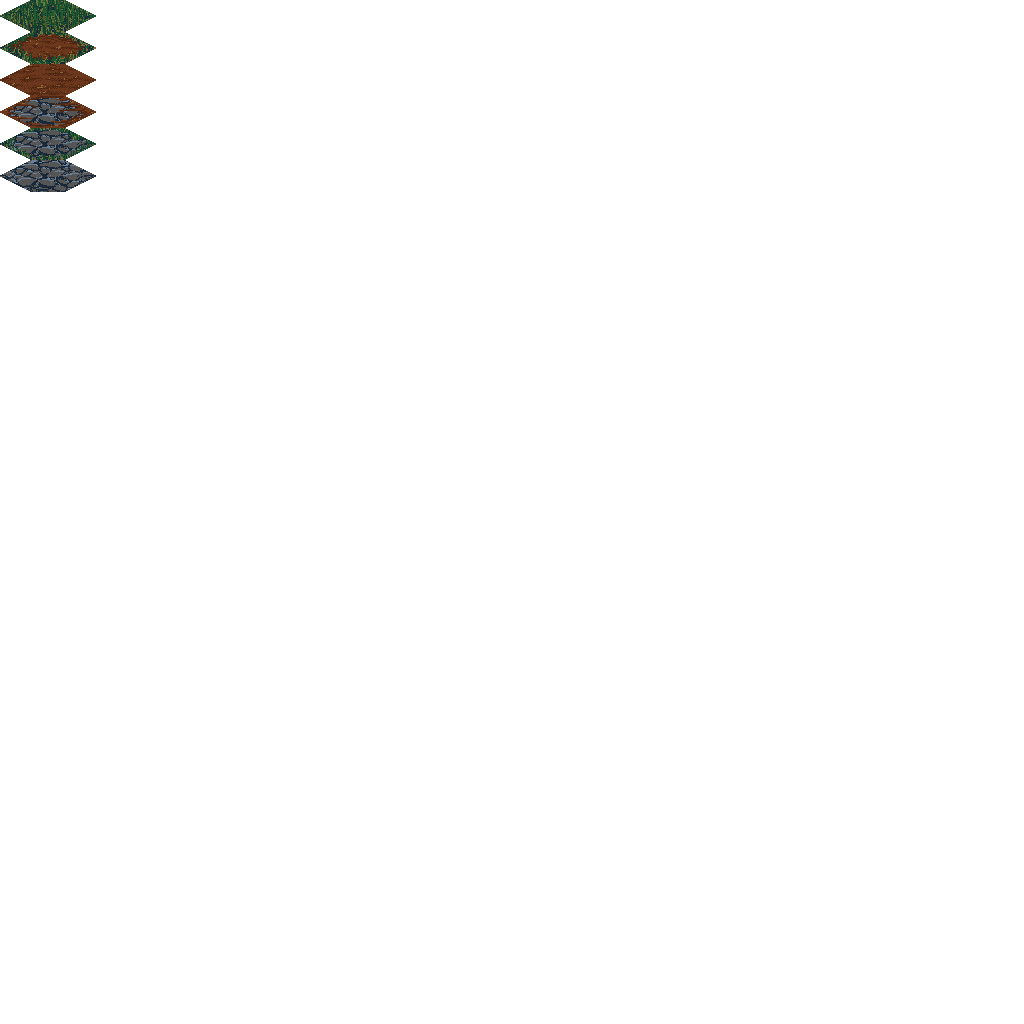
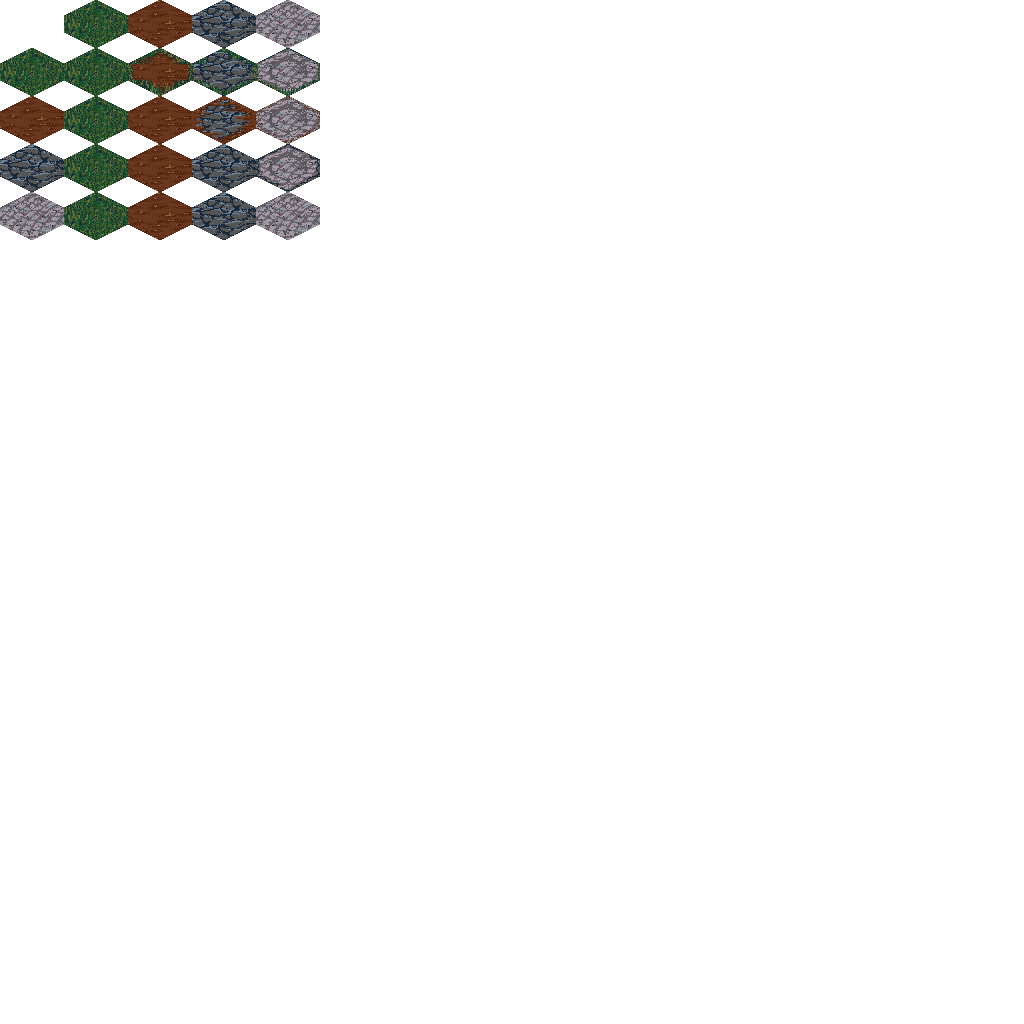
tile shape change

Changed region(s): [[0.0, 0.0, 0.3125, 0.25]]

diff --git a/map_editor/src.js b/map_editor/src.js
@@ -47,13 +47,13 @@ function noise(x, y, z) {
 }
 
 const background_tiles = new Image();
-background_tiles.src = "assets/tiles-0.03.png"; // 32x16 tiles. 96x32 hexagons.
+background_tiles.src = "assets/tiles.png"; // 32x16 tiles. 64x48 hexagons.
+tile_width = 64;
+tile_height = 48;
 
 map_width = 80;
 map_height = 80;
-if (map_width < 864 / 64) map_width = Math.round(864 / 64);
-if (map_width < 864 >> 6) map_width = 864 >> 6;
-if (map_height < 632 >> 5) map_height = 632 >> 5;
+
 map = []
 for (x = 0; x < map_width; x++) {
     map.push([]);
@@ -80,161 +80,85 @@ const offscreen_canvas = new OffscreenCanvas(canvas.width, canvas.height);
 const octx = offscreen_canvas.getContext("2d");
 octx.imageSmoothingEnabled = false;
 update_display = false;
+// prevent the map from being to small
+if (map_width < canvas.width / tile_width) map_width = Math.round(canvas.width / tile_width);
+if (map_height < canvas.height / tile_height) map_height = Math.round(canvas.height / tile_height);
 pressed_keys = {};
 brush_tile = 2;
-
-function pick_tile(tile_a, tile_b) {
-    //bg tile order:
-    // 1 - grass
-    // 2 - dirt
-    // 3 - stone
-    if (tile_a == 2 && tile_b == 0) return 1;
-    if (tile_a == 5 && tile_b == 0) return 4;
-    if (tile_a == 5 && tile_b == 2) return 3;
-    return tile_a;
-}
 
 function on_image_load() {
     update_display = true;
     setInterval(update, 1000 / 60);
 }
-function check_edges(x, y) {
-
-    o = (x % 2);
-    center = map[x][y];
-    top_left = center; top = center; top_right = center; bottom_left = center; bottom = center; bottom_right = center;
-    if (x >= 0 && x < map_width && y >= 0 && y < map_height) {
-        if (x > 0) {
-            if (y > 0) {
-                top_left = map[x - 1][y - 1 + o];
-            }
-            if (y < map_width - 1) {
-                bottom_left = map[x - 1][y + o];
-            }
-        }
-        if (x < map_width - 1) {
-            if (y > 0) {
-                top_right = map[x + 1][y - 1 + o];
-            }
-            if (y < map_width - 1) {
-                bottom_right = map[x + 1][y + o];
-            }
-        }
-        if (y > 0) {
-            top = map[x][y - 1];
-        }
-        if (y < map_height - 1) {
-            bottom = map[x][y + 1];
-        }
-    }
-    return [center, top_left, top, top_right, bottom_left, bottom, bottom_right];
-}
 function draw() {
     if (update_display ) {
-        octx.clearRect(0, 0, canvas.width, canvas.height);
-        x = highlighted_tile[0];
-        y = highlighted_tile[1];
-
-        if (x < 1) x = 1;
-        if (x > map_width - 2) x = map_width - 2;
-        if (y < 1) y = 1;
-        if (y > map_height - 2) y = map_height - 2;
-        tile_x = map[x][y] * 96;
-        tile_y = map[x - 1][y - (x % 2)] * 32;
-        octx.drawImage(
-            background_tiles, tile_x, tile_y, 32, 16,
-            Math.round((x * 64 - view_x) * scale),
-            Math.round((y * 32 - view_y + (x % 2)*16) * scale),
-            32 * scale, 16 * scale);
-        // draw top middle
-        tile_x = map[x][y] * 96;
-        tile_y = map[x][y - 1] * 32;
-        octx.drawImage(
-            background_tiles, tile_x + 32, tile_y, 32, 16,
-            Math.round((x * 64 - view_x + 32) * scale),
-            Math.round((y * 32 - view_y + (x % 2)*16) * scale),
-            32 * scale, 16 * scale);
-        // draw top right
-        tile_y = map[x + 1][y - (x%2)] * 32;
-        octx.drawImage(
-            background_tiles, tile_x + 64, tile_y, 32, 16,
-            Math.round((x * 64 - view_x + 64) * scale),
-            Math.round((y * 32 - view_y + (x % 2) * 16) * scale),
-            32 * scale, 16 * scale);
-        // draw bottom left
-        tile_y = map[x - 1][y + (x % 2)] * 32;
-        octx.drawImage(
-            background_tiles, tile_x, tile_y + 16, 32, 16,
-            Math.round((x * 64 - view_x) * scale),
-            Math.round((y * 32 - view_y + (x % 2)* 16 + 16) * scale),
-            32 * scale, 16 * scale);
-        // middle bottom
-        tile_y = map[x][y+1] * 32;
-        octx.drawImage(
-            background_tiles, tile_x + 32, tile_y + 16, 32, 16,
-            Math.round((x * 64 - view_x + 32) * scale),
-            Math.round((y * 32 - view_y + (x % 2)* 16 + 16) * scale),
-            32 * scale, 16 * scale);
-        // bottom right
-        tile_y = map[x + 1][y + (x % 2)] * 32;
-        octx.drawImage(
-            background_tiles, tile_x + 64, tile_y + 16, 32, 16,
-            Math.round((x * 64 - view_x + 64) * scale),
-            Math.round((y * 32 - view_y + (x % 2)* 16 + 16) * scale),
-            32 * scale, 16 * scale);
         octx.fillStyle = "rgba(255,255,255,0.3)";
         octx.fillRect(x * 64 - view_x, y * 32 - view_y + (x % 2) * 16, 96, 32);
-        for (x = Math.floor(view_x / 64 * scale)-1; x < Math.floor(view_x + canvas.width) / 64 * scale + 1; x++) {
+        for (x = Math.floor(view_x / tile_width * scale)-1; x < Math.floor(view_x + canvas.width) / tile_width * scale + 1; x++) {
             for (y = Math.floor(view_y / 32 * scale) - 1; y < Math.floor(view_y + canvas.height) / 32 * scale + 1; y++) {
                 if (x < 1) continue; if (x > map_width - 2) continue;
                 if (y < 1) continue; if (y > map_height - 2) continue;
-                if (x == highlighted_tile[0] && y == highlighted_tile[1]) continue;
+                // if (x == highlighted_tile[0] && y == highlighted_tile[1]) continue;
 
-                tile_x = map[x][y] * 96;
-                tile_y = map[x - 1][y-((x-1)%2)] * 32;
+                //top left
+                tile_x = map[x][y] * tile_width;
+                tile_y = map[x-1+(y%2)][y-1] * tile_height;
                 octx.drawImage(
                     background_tiles, tile_x, tile_y, 32, 16,
-                    Math.round((x * 64 - view_x) * scale),
-                    Math.round((y * 32 - view_y + (x % 2)*16) * scale),
+                    Math.round((x * tile_width - view_x + (y%2)*32) * scale),
+                    Math.round((y * 32 - view_y ) * scale),
                     32 * scale, 16 * scale);
-                // draw top middle
-                tile_y = map[x][y - 1] * 32;
+                // top right
+                tile_y = map[x+(y%2)][y - 1] * tile_height;
                 octx.drawImage(
                     background_tiles, tile_x + 32, tile_y, 32, 16,
-                    Math.round((x * 64 - view_x + 32) * scale),
-                    Math.round((y * 32 - view_y + (x % 2)*16) * scale),
+                    Math.round((x * tile_width - view_x + 32 + (y%2)*32) * scale),
+                    Math.round((y * 32 - view_y ) * scale),
                     32 * scale, 16 * scale);
-                // draw top right
-                tile_y = map[x + 1][y-((x+1)%2)] * 32;
+                // draw mid left
+                tile_y = map[x-1][y] * tile_height;
                 octx.drawImage(
-                    background_tiles, tile_x + 64, tile_y, 32, 16,
-                    Math.round((x * 64 - view_x + 64) * scale),
-                    Math.round((y * 32 - view_y + (x % 2) * 16) * scale),
+                    background_tiles, tile_x, tile_y+16, 32, 16,
+                    Math.round((x * tile_width - view_x + (y%2)*32) * scale),
+                    Math.round((y * 32 - view_y + 16 ) * scale),
                     32 * scale, 16 * scale);
-                // draw bottom left
-                tile_y = map[x - 1][y + (x % 2)] * 32;
+                // draw mid right
+                tile_y = map[x + 1][y] * tile_height;
                 octx.drawImage(
-                    background_tiles, tile_x, tile_y + 16, 32, 16,
-                    Math.round((x * 64 - view_x) * scale),
-                    Math.round((y * 32 - view_y + (x % 2)* 16 + 16) * scale),
+                    background_tiles, tile_x+32, tile_y + 16, 32, 16,
+                    Math.round((x * tile_width - view_x + (y%2)*32 + 32) * scale),
+                    Math.round((y * 32 - view_y + 16) * scale),
                     32 * scale, 16 * scale);
-                // middle bottom
-                tile_y = map[x][y+1] * 32;
+                // bottom left
+                tile_y = map[x-1+(y%2)][y+1] * tile_height;
                 octx.drawImage(
-                    background_tiles, tile_x + 32, tile_y + 16, 32, 16,
-                    Math.round((x * 64 - view_x + 32) * scale),
-                    Math.round((y * 32 - view_y + (x % 2)* 16 + 16) * scale),
+                    background_tiles, tile_x, tile_y + 32, 32, 16,
+                    Math.round((x * tile_width - view_x + (y%2)*32) * scale),
+                    Math.round((y * 32 - view_y + 32) * scale),
                     32 * scale, 16 * scale);
                 // bottom right
-                tile_y = map[x + 1][y + (x % 2)] * 32;
+                tile_y = map[x+(y%2)][y + 1] * tile_height;
                 octx.drawImage(
-                    background_tiles, tile_x + 64, tile_y + 16, 32, 16,
-                    Math.round((x * 64 - view_x + 64) * scale),
-                    Math.round((y * 32 - view_y + (x % 2)* 16 + 16) * scale),
+                    background_tiles, tile_x+32, tile_y + 32, 32, 16,
+                    Math.round((x * tile_width - view_x + (y%2)*32 + 32) * scale),
+                    Math.round((y * 32 - view_y + 32) * scale),
                     32 * scale, 16 * scale);
-
             }
         }
+        highlight_path = new Path2D();
+        octx.lineWidth = 1;
+        octx.strokeStyle = "red";
+        octx.fillStyle = "rgba(255,0,0,0.1)";
+        x = highlighted_tile[0]; y = highlighted_tile[1];
+        highlight_path.moveTo(x * tile_width + tile_width / 2 - view_x + (32*(y%2)),y * tile_height/3*2 - view_y);
+        highlight_path.lineTo(x * tile_width + tile_width - view_x+ (32*(y%2)), y * tile_height/3*2 + tile_height / 3 - view_y);
+        highlight_path.lineTo(x * tile_width + tile_width - view_x+ (32*(y%2)), y*tile_height/3*2 + tile_height / 3 * 2 - view_y);
+        highlight_path.lineTo(x * tile_width + tile_width / 2 - view_x+ (32*(y%2)), y*tile_height/3*2 + tile_height - view_y);
+        highlight_path.lineTo(x * tile_width - view_x+ (32*(y%2)) , y*tile_height/3*2 + tile_height / 3 * 2 - view_y);
+        highlight_path.lineTo(x * tile_width - view_x+ (32*(y%2)), y*tile_height/3*2 + tile_height / 3 - view_y);
+        highlight_path.closePath();
+        octx.stroke(highlight_path);
+        octx.fill(highlight_path);
         update_display = false;
         ctx.fillStyle = "#FFF";
         ctx.fillRect(0, 0, canvas.width, canvas.height);
@@ -279,15 +203,15 @@ function mouse_move(event) {
         update_display = true;
         if (view_x < 0) view_x = 0;
         if (view_y < 0) view_y = 0;
-        if (view_x + canvas.width > map_width * 64 * scale+64) view_x = map_width * 64 * scale - canvas.width+64;
-        if (view_y + canvas.height > map_height * 32* scale+32) view_y = map_height * 32 * scale - canvas.height+32;
+        if (view_x + canvas.width > map_width * tile_width * scale+tile_width) view_x = map_width * tile_width * scale - canvas.width+tile_width;
+        if (view_y + canvas.height > map_height * 64* scale+64) view_y = map_height * 64 * scale - canvas.height+64;
     }
     // calculate which tile the mouse is over
-    mouse_tile_x = Math.round(((view_x + mouse_x - 48) * scale) / 64);
-    if (mouse_tile_x % 2) {
-        mouse_tile_y = Math.round(((view_y + mouse_y - ((view_x % 2) * 16) - 32) * scale) / 32);
+    mouse_tile_y = Math.floor((view_y + mouse_y) / (tile_height / 3 * 2));
+    if (mouse_tile_y % 2) {
+        mouse_tile_x = Math.floor((view_x + mouse_x-32) / tile_width);
     } else {
-        mouse_tile_y = Math.round(((view_y + mouse_y - 16) * scale) / 32);
+        mouse_tile_x = Math.floor((view_x + mouse_x) / tile_width);
     }
     if ([mouse_tile_x, mouse_tile_y] != highlighted_tile) {
         highlighted_tile = [mouse_tile_x, mouse_tile_y];
